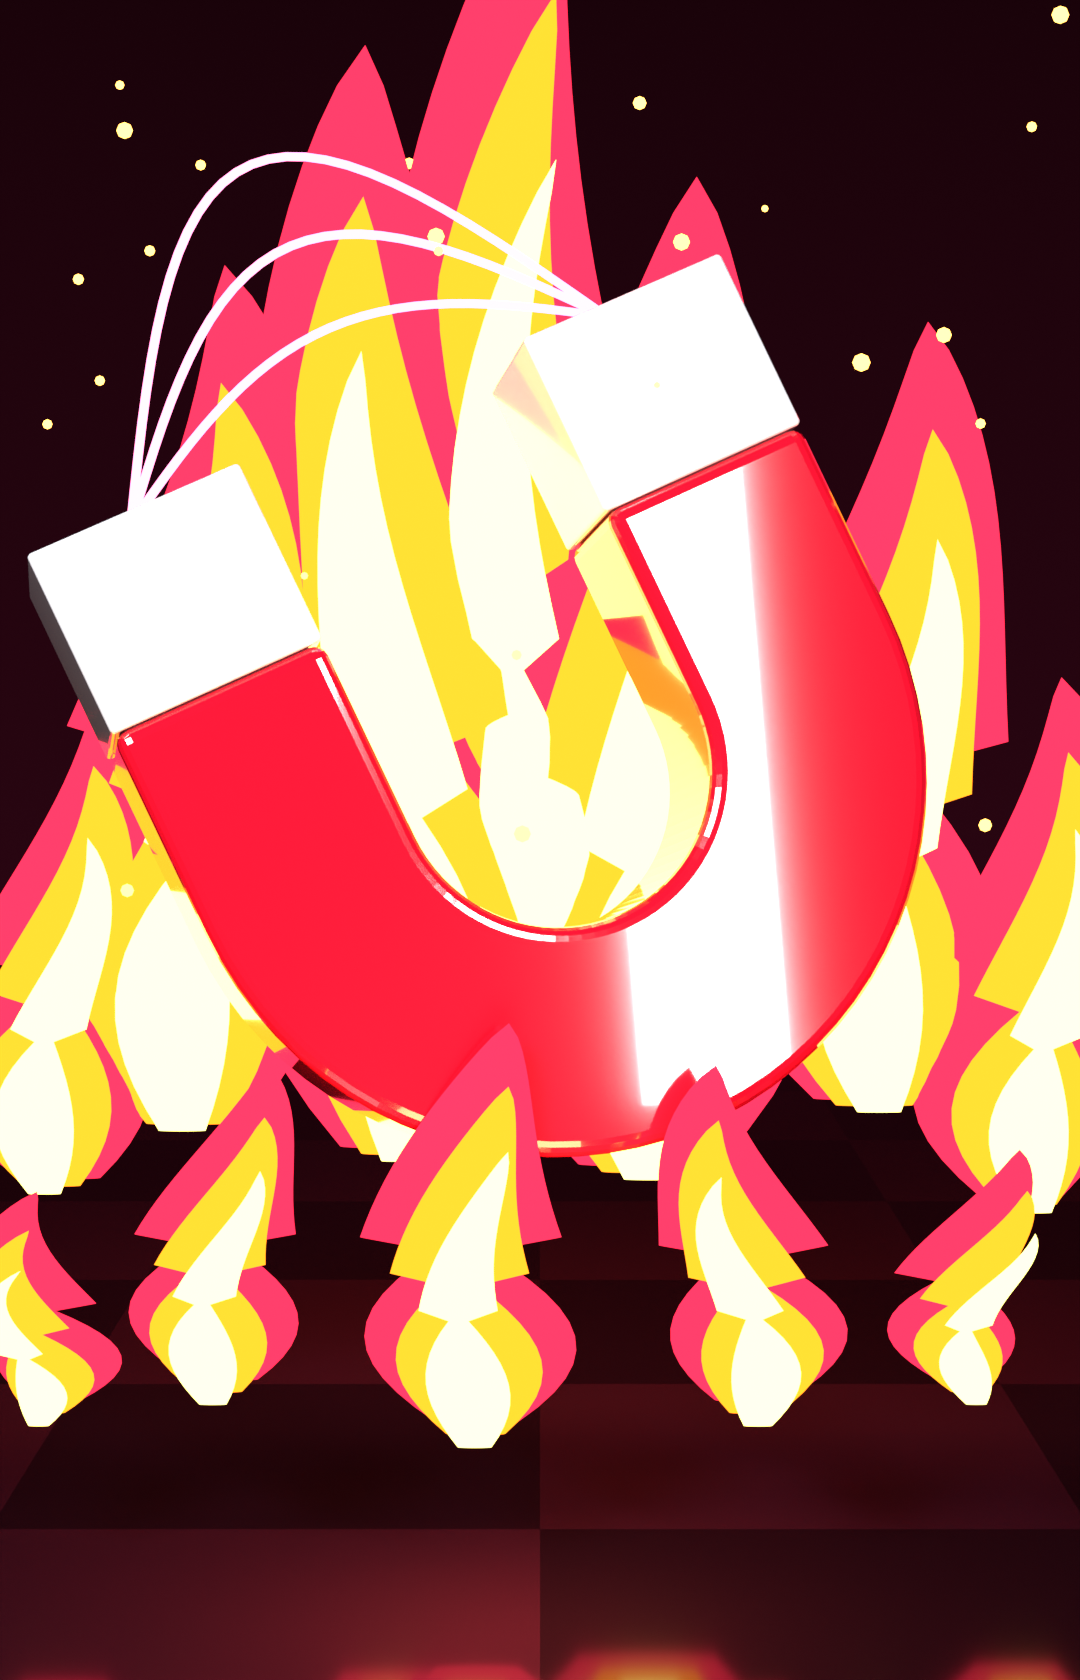
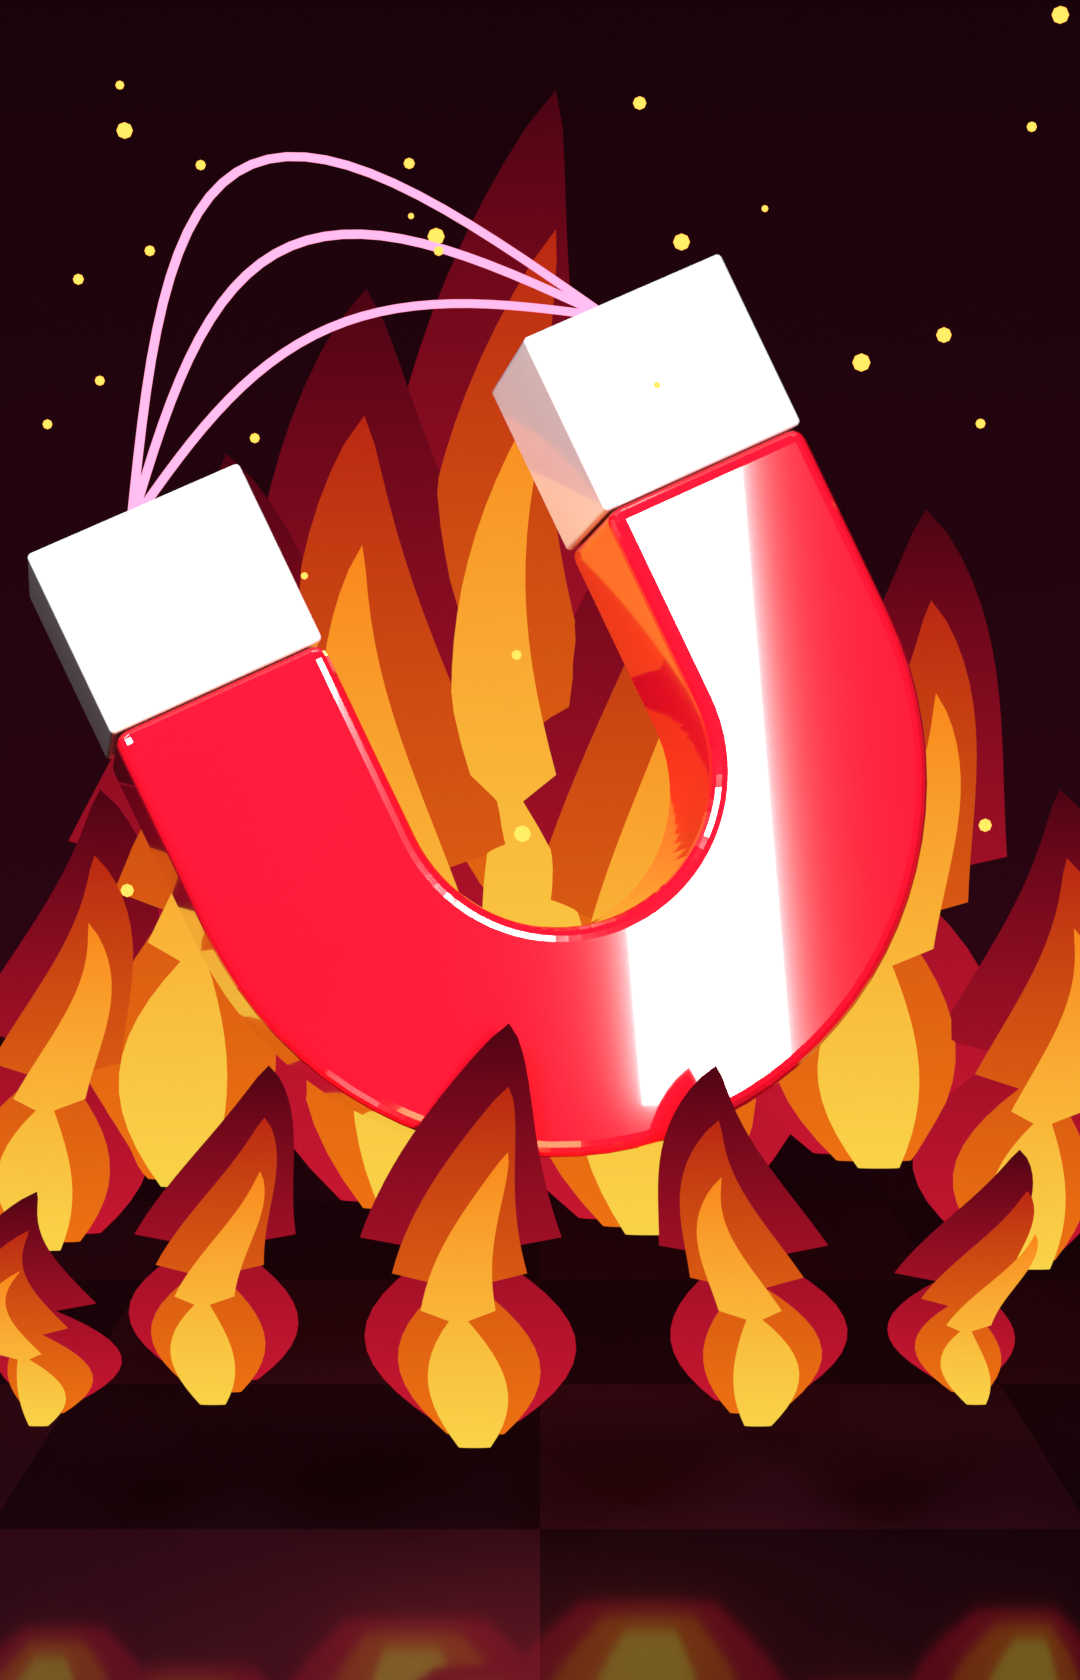
Class Clown over a vortex, Heat Magnet's fire held under white
Class Clown's backdrop is the owner's Feelin' Fab swirl: a log-spiral twist in
the shader, bright at its eye and dark away from it, with the kit lit harder
and edged from behind. Heat Magnet's tongues are graded and kept under white,
so they hold their color and the magnet reads; a soft volumetric fire is added
as a second style (HEAT_STYLE=volume), still being tuned.

Claude-Session: https://claude.ai/code/session_01FiUbYPprf6iJkzuoPZL2iX

diff --git a/docs/research/2026-11-11-card-renders/heat.py b/docs/research/2026-11-11-card-renders/heat.py
@@ -32,7 +32,17 @@ tilt = (-10, -24, 14)
 rig.group(mag, loc=C + Vector((0, 0, -0.3)), rot=tilt, scale=1.25)
 
 # ---- the fire: tongues of it, each three skins deep, hottest inside ------------------------------
-SKINS = [(rig.glow('fire-out', rig.hexrgb('#ff2a4a'), 2.2), 1.0), (rig.glow('fire-mid', rig.hexrgb('#ff8a1c'), 3.0), 0.68), (rig.glow('fire-in', rig.hexrgb('#fff27a'), 4.5), 0.38)]
+def flame_skin(name, foot, tip, strength):
+    """Fire's own light, graded from its foot color to its tip color up the tongue, and held under white so it keeps its color."""
+    m, n, l, b = rig.material(name)
+    tc = n.new('ShaderNodeTexCoord'); sx = n.new('ShaderNodeSeparateXYZ'); ramp = n.new('ShaderNodeValToRGB')
+    ramp.color_ramp.elements[0].color = (*rig.hexrgb(foot), 1); ramp.color_ramp.elements[1].color = (*rig.hexrgb(tip), 1)
+    l.new(tc.outputs['Generated'], sx.inputs[0]); l.new(sx.outputs['Z'], ramp.inputs['Fac'])
+    em = n.new('ShaderNodeEmission'); l.new(ramp.outputs['Color'], em.inputs['Color']); em.inputs['Strength'].default_value = strength
+    l.new(em.outputs[0], n['Material Output'].inputs['Surface'])
+    return m
+DIM = float(os.environ.get('HEAT_FIRE', '1.0'))                  # the fire's brightness: 1 is as committed
+SKINS = [(flame_skin('fire-out', '#e81c3a', '#5a0618', 0.7 * DIM), 1.0), (flame_skin('fire-mid', '#ff7a14', '#c82a14', 0.85 * DIM), 0.66), (flame_skin('fire-in', '#ffd84a', '#ff8a1c', 0.95 * DIM), 0.36)]
 def tongue(base, height, radius, sway, phase, depth=0.0):
     """A flame: a flat teardrop on a wavering spine, drawn three times over, each smaller, hotter and nearer."""
     for i, (mat, k) in enumerate(SKINS):
@@ -47,16 +57,63 @@ def tongue(base, height, radius, sway, phase, depth=0.0):
         me = bpy.data.meshes.new('tongue'); bm.to_mesh(me); bm.free()
         for f in me.polygons: f.use_smooth = True
         o = bpy.data.objects.new('tongue', me); sc.collection.objects.link(o); me.materials.append(mat)
-for x, y, z, h, r in ((-1.9, 1.2, -1.6, 4.6, 0.8), (-0.7, 1.4, -1.8, 6.0, 1.0), (0.6, 1.4, -1.9, 5.4, 0.95), (1.8, 1.2, -1.5, 4.2, 0.75),
-                      (-2.6, 1.0, -1.9, 2.6, 0.55), (2.6, 1.0, -2.0, 2.8, 0.55), (0.0, 1.6, -1.2, 6.6, 0.8)):
-    tongue((x, y, z), h, r, rnd.uniform(0.25, 0.5), rnd.uniform(0, 6))
-for x, z, h, r in ((-1.5, -2.5, 1.5, 0.4), (-0.3, -2.7, 1.9, 0.5), (1.0, -2.6, 1.6, 0.42), (2.0, -2.5, 1.1, 0.3), (-2.3, -2.6, 1.0, 0.3)):   # licking up in front
-    tongue((x, -0.9, z), h, r, rnd.uniform(0.15, 0.3), rnd.uniform(0, 6))
-ember = rig.glow('ember', rig.hexrgb('#ffb04a'), 8.0)
+STYLE = os.environ.get('HEAT_STYLE', 'tongues')                   # 'tongues': flat cartoon fire; 'volume': soft fire with depth
+
+def volume_fire():
+    """One material for every column of soft fire: a noise-shaken cone of light inside a box, read in the box's own
+    coordinates (-1 to 1 each way), so a box of any size holds one flame. No simulation: the shape is a formula."""
+    m = bpy.data.materials.new('volume-fire'); m.use_nodes = True; n, l = m.node_tree.nodes, m.node_tree.links
+    def mth(op, a, b2=None, clamp=False):
+        nd = n.new('ShaderNodeMath'); nd.operation = op; nd.use_clamp = clamp
+        for k, v in enumerate((a, b2)):
+            if v is None: continue
+            if hasattr(v, 'is_linked'): l.new(v, nd.inputs[k])
+            else: nd.inputs[k].default_value = v
+        return nd.outputs[0]
+    tc = n.new('ShaderNodeTexCoord'); sx = n.new('ShaderNodeSeparateXYZ'); l.new(tc.outputs['Object'], sx.inputs[0])
+    x, y, z = sx.outputs['X'], sx.outputs['Y'], sx.outputs['Z']
+    h = mth('MULTIPLY', mth('ADD', z, 1.0), 0.5)                          # 0 at the foot, 1 at the top
+    info = n.new('ShaderNodeObjectInfo'); mp = n.new('ShaderNodeMapping'); mp.inputs['Scale'].default_value = (1.6, 1.6, 2.6)
+    comb = n.new('ShaderNodeCombineXYZ'); l.new(mth('MULTIPLY', info.outputs['Random'], 50.0), comb.inputs['X'])
+    l.new(tc.outputs['Object'], mp.inputs['Vector']); l.new(comb.outputs[0], mp.inputs['Location'])
+    noise = n.new('ShaderNodeTexNoise'); noise.inputs['Scale'].default_value = 1.7; noise.inputs['Detail'].default_value = 4.0
+    noise.inputs['Distortion'].default_value = 0.8; l.new(mp.outputs['Vector'], noise.inputs['Vector'])
+    shake = mth('MULTIPLY', mth('SUBTRACT', noise.outputs['Fac'], 0.5), mth('ADD', 0.35, mth('MULTIPLY', h, 1.5)))   # wilder higher up
+    r = mth('ADD', mth('SQRT', mth('ADD', mth('MULTIPLY', x, x), mth('MULTIPLY', y, y))), shake)
+    width = mth('MULTIPLY', mth('POWER', mth('SUBTRACT', 1.0, h, clamp=True), 0.65), mth('ADD', 0.72, mth('MULTIPLY', mth('MULTIPLY', h, 5.0, clamp=True), 0.12)))
+    heat = mth('SUBTRACT', 1.0, mth('DIVIDE', r, mth('MAXIMUM', width, 0.001)), clamp=True)   # 1 at the core, 0 at the edge
+    ramp = n.new('ShaderNodeValToRGB'); cr = ramp.color_ramp
+    cr.elements[0].position = 0.0; cr.elements[0].color = (*rig.hexrgb('#3a0410'), 1)
+    cr.elements[1].position = 1.0; cr.elements[1].color = (*rig.hexrgb('#fff0a0'), 1)
+    for pos, hx in ((0.25, '#c8142a'), (0.5, '#ff5a14'), (0.78, '#ffc23a')):
+        e = cr.elements.new(pos); e.color = (*rig.hexrgb(hx), 1)
+    l.new(heat, ramp.inputs['Fac'])
+    vol = n.new('ShaderNodeVolumePrincipled'); vol.inputs['Color'].default_value = (0.02, 0.005, 0.005, 1)
+    l.new(mth('MULTIPLY', heat, 0.6), vol.inputs['Density'])
+    l.new(ramp.outputs['Color'], vol.inputs['Emission Color'])
+    l.new(mth('MULTIPLY', mth('POWER', heat, 1.6), 5.0 * DIM), vol.inputs['Emission Strength'])
+    out = n['Material Output']
+    for lk in list(out.inputs['Surface'].links): l.remove(lk)
+    l.new(vol.outputs[0], out.inputs['Volume'])
+    return m
+
+if STYLE == 'volume':
+    vf = volume_fire()
+    COLUMNS = [(-1.9, 1.3, G, 5.4, 1.5), (-0.7, 1.6, G, 7.0, 1.8), (0.6, 1.6, G, 6.4, 1.7), (1.8, 1.3, G, 5.0, 1.4), (-2.8, 1.0, G, 3.6, 1.1),
+               (2.8, 1.0, G, 3.8, 1.1), (0.0, 2.0, G, 7.6, 1.5), (-1.6, -1.0, G, 2.3, 1.0), (-0.3, -1.1, G, 2.8, 1.1), (1.0, -1.0, G, 2.4, 1.0), (2.2, -0.9, G, 1.8, 0.8), (-2.7, -0.8, G, 1.7, 0.8)]
+    for x, y, z, h, r in COLUMNS:                                 # a box each: foot at (x, y, z), h tall, r wide either way
+        bpy.ops.mesh.primitive_cube_add(size=2, location=(x, y, z + h / 2)); o = bpy.context.object; o.scale = (r, r, h / 2); o.data.materials.append(vf)
+else:
+    for x, y, z, h, r in ((-1.9, 1.2, -1.9, 3.9, 0.8), (-0.7, 1.4, -2.1, 5.0, 1.0), (0.6, 1.4, -2.2, 4.5, 0.95), (1.8, 1.2, -1.8, 3.5, 0.75),
+                          (-2.6, 1.0, -2.2, 2.4, 0.55), (2.6, 1.0, -2.3, 2.5, 0.55), (0.0, 1.6, -1.6, 5.6, 0.8)):
+        tongue((x, y, z), h, r, rnd.uniform(0.25, 0.5), rnd.uniform(0, 6))
+    for x, z, h, r in ((-1.5, -2.5, 1.5, 0.4), (-0.3, -2.7, 1.9, 0.5), (1.0, -2.6, 1.6, 0.42), (2.0, -2.5, 1.1, 0.3), (-2.3, -2.6, 1.0, 0.3)):   # licking up in front
+        tongue((x, -0.9, z), h, r, rnd.uniform(0.15, 0.3), rnd.uniform(0, 6))
+ember = rig.glow('ember', rig.hexrgb('#ffb04a'), 2.0)
 for i in range(40):
     rig.ball((rnd.uniform(-2.6, 2.6), rnd.uniform(-1, 2), rnd.uniform(-1, 4.1)), rnd.uniform(0.015, 0.045), ember, 'ember', 8)
 # the pull: arcs of it leaping from pole to pole
-arc = rig.glow('arc', rig.hexrgb('#ff7ab0'), 5.0)
+arc = rig.glow('arc', rig.hexrgb('#ff9ac4'), 1.6)
 from mathutils import Euler
 M = Euler(tuple(math.radians(a) for a in tilt), 'XYZ').to_matrix()
 tip = lambda sx: C + Vector((0, 0, -0.3)) + M @ (Vector((sx * RB, -0.1, LEG * 1.05)) * 1.25)
@@ -64,11 +121,11 @@ for k in range(3):
     a, b = tip(-1), tip(1); up = (M @ Vector((0, 0, 1))) * (0.5 + 0.45 * k)
     rig.tube('arc', [a + (b - a) * t + up * math.sin(math.pi * t) for t in (j / 30 for j in range(31))], 0.022, arc, res=3)
 
-fl = bpy.data.lights.new('fire', 'POINT'); fl.energy = 4000; fl.color = (1.0, 0.45, 0.15); fl.shadow_soft_size = 1.5
+fl = bpy.data.lights.new('fire', 'POINT'); fl.energy = 1500; fl.color = (1.0, 0.45, 0.15); fl.shadow_soft_size = 1.5
 fo = bpy.data.objects.new('fire', fl); sc.collection.objects.link(fo); fo.location = (0, 1.8, 1.0)
-fl2 = bpy.data.lights.new('fire-front', 'POINT'); fl2.energy = 900; fl2.color = (1.0, 0.5, 0.2); fl2.shadow_soft_size = 1.0
+fl2 = bpy.data.lights.new('fire-front', 'POINT'); fl2.energy = 350; fl2.color = (1.0, 0.5, 0.2); fl2.shadow_soft_size = 1.0
 fo2 = bpy.data.objects.new('fire-front', fl2); sc.collection.objects.link(fo2); fo2.location = (0, -2.2, -2.2)
-rig.area('key', (-6, -9, 6), 4.0, 1700, look_at=tuple(C))
+rig.area('key', (-6, -9, 6), 4.0, 2000, look_at=tuple(C))
 rig.area('window', (4, -8, 3), 1.2, 800, look_at=tuple(C), size_y=6.0)
 rig.world((0.06, 0.01, 0.03), 0.6)
 rig.camera(60, elev=4)

diff --git a/docs/research/2026-11-11-card-renders/clown.py b/docs/research/2026-11-11-card-renders/clown.py
@@ -1,4 +1,5 @@
-"""Class Clown card art exploration (the owner's idea): a clown's kit, floating: the wig, the nose, the horn."""
+"""Class Clown card art exploration (the owner's idea): a clown's kit, floating: the wig, the nose, the horn,
+over a vortex of every color."""
 import sys, os, math, random, colorsys
 sys.path.insert(0, os.path.dirname(os.path.abspath(__file__)))
 import bpy
@@ -10,29 +11,43 @@ rnd = random.Random(int(os.environ.get('CLOWN_SEED', '9')))
 sc = rig.reset()
 C = Vector((0, 0, 1.0))                  # where the nose floats
 
-# ---- behind it: a big-top sunburst in every color ------------------------------------------------
-m, n, l, b = rig.material('bigtop')
+# ---- behind it: every color, wound into a vortex (after the owner's own Feelin' Fab swirl) -------------------
+# The backdrop is a flat card; the twist is in its shader. A point's color is its angle about the eye of the
+# vortex plus TWIST times the log of its distance from it, so each band is a spiral arm; it is brightest at the
+# eye and falls dark away from it, which is what lets the kit stand off it.
+EYE = (float(os.environ.get('CLOWN_EYE_X', '0.9')), float(os.environ.get('CLOWN_EYE_Z', '2.7')))
+TWIST = float(os.environ.get('CLOWN_TWIST', '0.5'))
+ARMS = 2                                 # whole rainbows in one turn about the eye
+m, n, l, b = rig.material('vortex')
+def math_node(op, a, b2=None):
+    nd = n.new('ShaderNodeMath'); nd.operation = op
+    for k, v in enumerate((a, b2)):
+        if v is None: continue
+        if hasattr(v, 'is_linked'): l.new(v, nd.inputs[k])
+        else: nd.inputs[k].default_value = v
+    return nd.outputs[0]
 tc = n.new('ShaderNodeTexCoord'); mp = n.new('ShaderNodeMapping')
-mp.inputs['Location'].default_value = (-0.5, -0.5 - C.z / 30, 0); mp.inputs['Scale'].default_value = (26 / 30, 1, 1)
-gr = n.new('ShaderNodeTexGradient'); gr.gradient_type = 'RADIAL'
-mul = n.new('ShaderNodeMath'); mul.operation = 'MULTIPLY'; mul.inputs[1].default_value = 3
-fr = n.new('ShaderNodeMath'); fr.operation = 'FRACT'
-ramp = n.new('ShaderNodeValToRGB'); cr = ramp.color_ramp; cr.interpolation = 'CONSTANT'
-STRIPES = ['#e8301c', '#ff8a1c', '#ffd21c', '#2fbf4a', '#1c8aff', '#8a3df0']
+mp.inputs['Scale'].default_value = (26, 30, 1); mp.inputs['Location'].default_value = (-13 - EYE[0], -15 - EYE[1], 0)   # to card units, about the eye
+sx = n.new('ShaderNodeSeparateXYZ'); l.new(tc.outputs['UV'], mp.inputs['Vector']); l.new(mp.outputs['Vector'], sx.inputs[0])
+x, y = sx.outputs['X'], sx.outputs['Y']
+r = math_node('SQRT', math_node('ADD', math_node('MULTIPLY', x, x), math_node('MULTIPLY', y, y)))
+turn = math_node('DIVIDE', math_node('ARCTAN2', y, x), math.tau)
+band = math_node('FRACT', math_node('ADD', math_node('MULTIPLY', turn, float(ARMS)), math_node('MULTIPLY', math_node('LOGARITHM', math_node('ADD', r, 0.05), math.e), TWIST)))
+ramp = n.new('ShaderNodeValToRGB'); cr = ramp.color_ramp
+STRIPES = ['#ff1c1c', '#ff8a1c', '#ffe81c', '#2fd24a', '#1cc8ff', '#2a4dff', '#b03df0', '#ff2ad0', '#ff1c1c']   # ends where it starts, so the turn closes
 cr.elements[0].position = 0; cr.elements[0].color = (*rig.hexrgb(STRIPES[0]), 1)
-cr.elements[1].position = 1 / 6; cr.elements[1].color = (*rig.hexrgb(STRIPES[1]), 1)
-for i in range(2, 6):
-    e = cr.elements.new(i / 6); e.color = (*rig.hexrgb(STRIPES[i]), 1)
-l.new(tc.outputs['UV'], mp.inputs['Vector']); l.new(mp.outputs['Vector'], gr.inputs['Vector'])
-l.new(gr.outputs['Fac'], mul.inputs[0]); l.new(mul.outputs[0], fr.inputs[0]); l.new(fr.outputs[0], ramp.inputs['Fac'])
-sph = n.new('ShaderNodeTexGradient'); sph.gradient_type = 'SPHERICAL'; mp2 = n.new('ShaderNodeMapping')
-mp2.inputs['Location'].default_value = (-0.5 * 3.2, (-0.5 - C.z / 30) * 3.2, 0); mp2.inputs['Scale'].default_value = (26 / 30 * 3.2, 3.2, 1)
-l.new(tc.outputs['UV'], mp2.inputs['Vector']); l.new(mp2.outputs['Vector'], sph.inputs['Vector'])
-dim = rig.mix_color(n, l, 0.62, ramp.outputs['Color'], (0.01, 0.005, 0.02))      # stripes held back, so the kit stands off them
-lit = rig.mix_color(n, l, sph.outputs['Fac'], dim, ramp.outputs['Color'])
-em = n.new('ShaderNodeEmission'); l.new(lit, em.inputs['Color']); l.new(em.outputs[0], n['Material Output'].inputs['Surface'])
+cr.elements[1].position = 1; cr.elements[1].color = (*rig.hexrgb(STRIPES[-1]), 1)
+for k in range(1, len(STRIPES) - 1):
+    e = cr.elements.new(k / (len(STRIPES) - 1)); e.color = (*rig.hexrgb(STRIPES[k]), 1)
+l.new(band, ramp.inputs['Fac'])
+near = math_node('DIVIDE', 1.0, math_node('ADD', 1.0, math_node('POWER', math_node('DIVIDE', r, 2.6), 2.0)))   # 1 at the eye, falling off
+white = rig.mix_color(n, l, math_node('POWER', near, 6.0), ramp.outputs['Color'], (1.0, 1.0, 1.0))          # the eye itself burns white
+em = n.new('ShaderNodeEmission'); l.new(white, em.inputs['Color'])
+l.new(math_node('ADD', 0.13, math_node('MULTIPLY', near, 0.95)), em.inputs['Strength'])
+l.new(em.outputs[0], n['Material Output'].inputs['Surface'])
 bpy.ops.mesh.primitive_plane_add(size=1, location=(0, 14, 0), rotation=(math.radians(90), 0, 0))
 bd = bpy.context.object; bd.scale = (26, 30, 1); bd.data.materials.append(m)
+CONFETTI = ['#e8301c', '#ff8a1c', '#ffd21c', '#2fbf4a', '#1c8aff', '#8a3df0']
 
 # ---- the wig: a rainbow of curls, around a head that is not there --------------------------------
 for i in range(150):
@@ -41,14 +56,14 @@ for i in range(150):
     p = C + Vector((math.cos(a) * rad * 1.08, y, 0.75 + math.sin(a) * rad))
     hue = ((math.degrees(a) + 35) / 250 * 0.83 + rnd.uniform(-0.03, 0.03)) % 1.0
     rgb = colorsys.hsv_to_rgb(hue, 0.95, 1.0)
-    rig.ball(p, rnd.uniform(0.3, 0.48), rig.plastic('curl', tuple(c ** 2.2 for c in rgb), rough=0.35, emit=0.12), 'curl', 20)
+    rig.ball(p, rnd.uniform(0.3, 0.48), rig.plastic('curl', tuple(c ** 2.2 for c in rgb), rough=0.4, emit=0.22), 'curl', 20)
 
 # ---- the nose: red, round, and very shiny --------------------------------------------------------
 rig.ball(C, 0.62, rig.plastic('nose', rig.hexrgb('#f0101c'), rough=0.05, coat=1.0), 'nose', 64)
 
 # ---- the horn: a brass bell, a bent neck, a black rubber bulb -----------------------------------
 brass = rig.plastic('brass', rig.hexrgb('#ffc02a'), rough=0.08, metallic=1.0)
-rubber = rig.plastic('bulb', (0.015, 0.012, 0.015), rough=0.25, coat=1.0)
+rubber = rig.plastic('bulb', rig.hexrgb('#1c5aff'), rough=0.2, coat=1.0, emit=0.1)
 horn = [rig.cone((0, 0, 0), (1.0, 0, 0), 0.12, 0.12, brass, 32)]
 import bmesh
 bm = bmesh.new(); rings = []
@@ -76,14 +91,16 @@ tie = [rig.slab('tie', [(0, 0.12), (0.95, 0.5), (0.95, -0.5), (0, -0.12), (-0.95
        rig.ball((0, -0.05, 0), 0.2, rig.plastic('knot', rig.hexrgb('#e8301c'), rough=0.15, coat=1.0), 'knot', 24)]
 rig.group(tie, loc=C + Vector((1.45, -0.4, -2.75)), rot=(0, 12, 14), scale=0.95)
 for i in range(60):
-    hx = rnd.choice(STRIPES + ['#ffffff'])
+    hx = rnd.choice(CONFETTI + ['#ffffff'])
     p = (rnd.uniform(-2.7, 2.7), rnd.uniform(-1.5, 3), rnd.uniform(-4.1, 4.1))
     bpy.ops.mesh.primitive_plane_add(size=rnd.uniform(0.08, 0.16), location=p, rotation=(rnd.uniform(0, 6), rnd.uniform(0, 6), rnd.uniform(0, 6)))
     bpy.context.object.data.materials.append(rig.plastic('confetti', rig.hexrgb(hx), rough=0.2, emit=0.4))
 
-rig.area('key', (-6, -9, 7), 4.0, 2400, look_at=tuple(C))
+rig.area('key', (-6, -9, 7), 4.0, 2200, look_at=tuple(C))
 rig.area('window', (3.5, -8, 3), 1.3, 1000, look_at=tuple(C), size_y=6.0)
-rig.area('soft', (6, -6, -3), 8.0, 900, rgb=(1.0, 0.9, 0.8), look_at=tuple(C))
-rig.world((0.25, 0.2, 0.3), 0.8)
+rig.area('soft', (6, -6, -3), 8.0, 1500, rgb=(1.0, 0.95, 0.9), look_at=tuple(C))
+for sx_ in (-1, 1):                                               # two lamps behind, for a white edge on everything
+    rig.area('edge', (sx_ * 7, 7, 3 * sx_), 5.0, 2600, look_at=tuple(C))
+rig.world((0.3, 0.28, 0.35), 0.9)
 rig.camera(60)
 rig.render(OUT)
